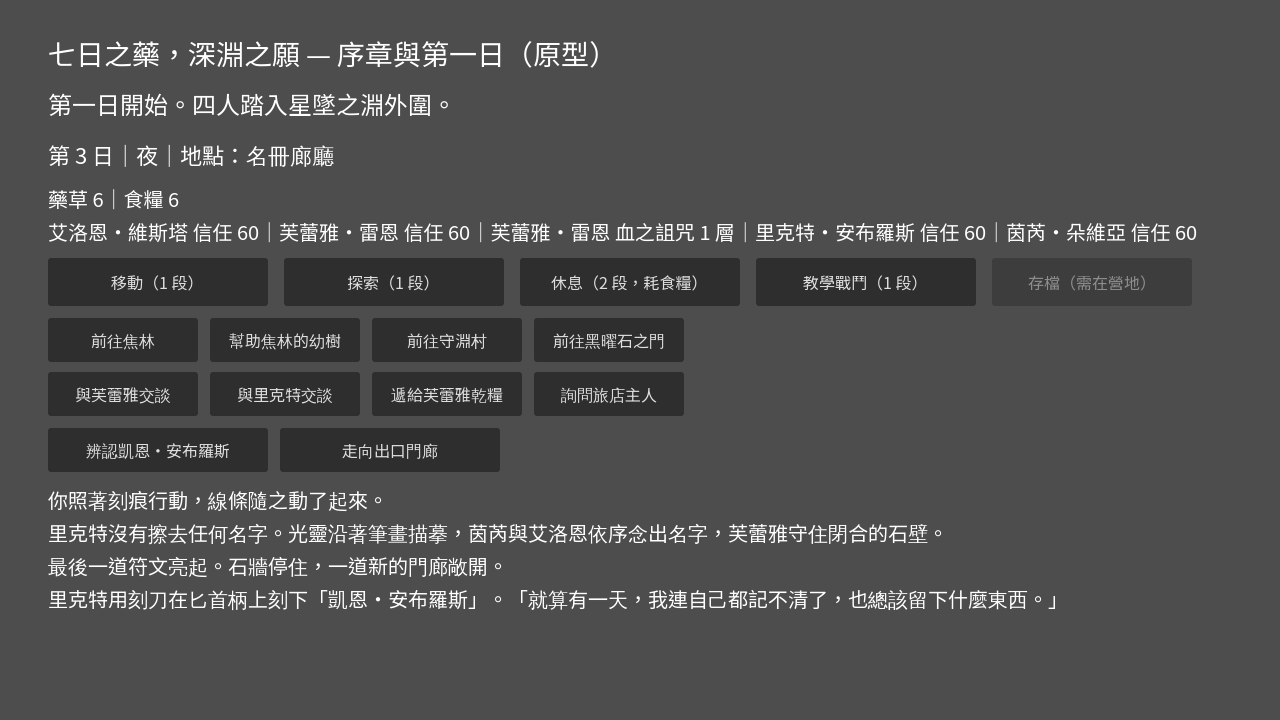
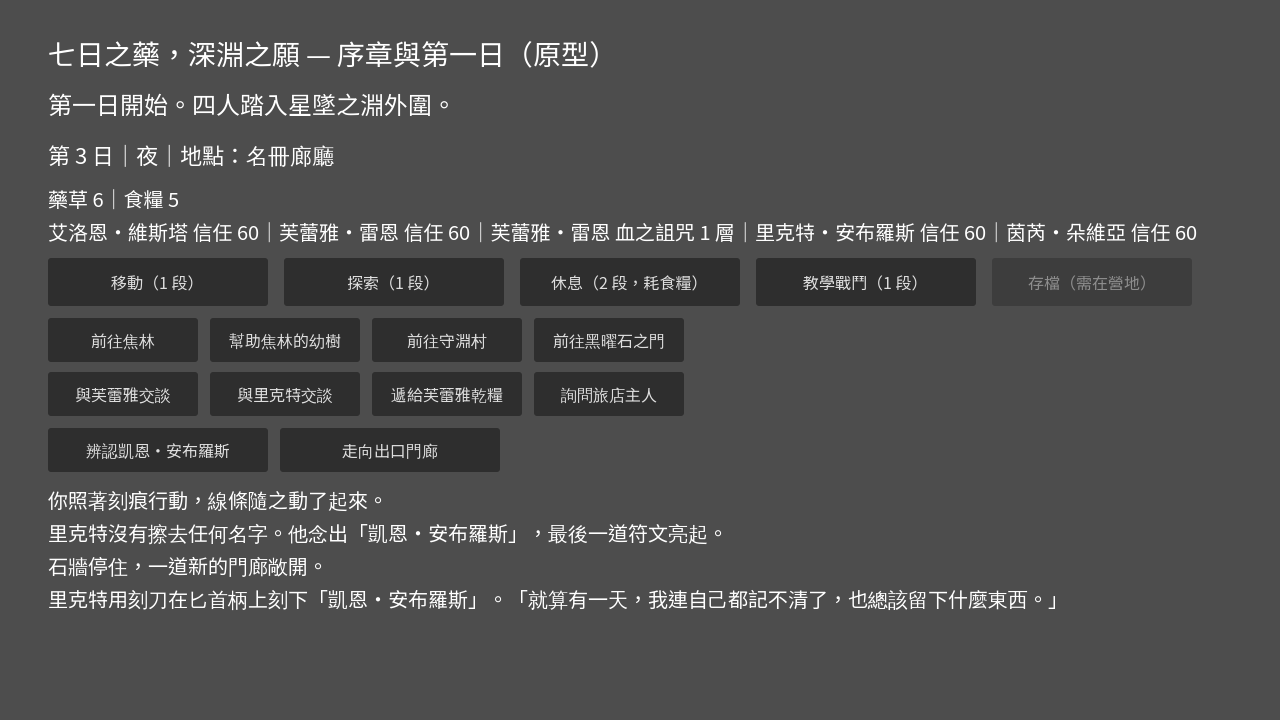
feat: require ordered steps for the Kaen seal, with a failure cost
The seal is solved in four ordered steps: summon light spirits, relink, read
names together, then finish with Kaen's name. A step out of order resets the
seal, spends one segment, and adds one blood curse stack to Freya. Refused or
failed steps run no events, so their messages and flags never fire.

Story: chapter three seal (design/narrative/CHAPTER3_EVENTS.md)

Claude-Session: https://claude.ai/code/session_016KRkTshVoQRFmCjToKscKQ

Changed region(s): [[0.0312, 0.7028, 0.7188, 0.825]]

diff --git a/design/narrative/CHAPTER3_EVENTS.md b/design/narrative/CHAPTER3_EVENTS.md
@@ -8,19 +8,23 @@
 | 地點 | 進入條件 | 可用行動 | 主要事件 |
 |---|---|---|---|
 | 咒牆迷廊 | 第三日起，且門後通道已進入 | `read:first_name`、`read:second_name` | 念出名字開啟左右窄路；兩條路都開啟後，名冊廊廳的通道接上 |
-| 名冊廊廳 | 通道接上（`registry_route_open`） | `read:kaen`、`seal:kaen` | 誓約銘文（原文）、凱恩之名、協作解陣、刻名匕首 |
+| 名冊廊廳 | 通道接上（`registry_route_open`） | `read:kaen`，以及依序的 `seal:draw`、`seal:link`、`seal:read`、`seal:kaen` | 誓約銘文（原文）、凱恩之名、協作解陣、刻名匕首 |
 | 出口門廊 | 結界已協作解開（`chapter3_sealed`） | 前往（`go:出口門廊`） | 植物氣息與第三日結尾 |
 
-- 解陣只有「協作」一條路（`seal:kaen`）。小說中里克特沒有擦除姓名，因此沒有擦除的行動。
+- 解陣依序完成四步：光靈描摹（`seal:draw`）→ 重排連線（`seal:link`）→ 全隊讀名（`seal:read`）→ 以凱恩之名完成（`seal:kaen`）。必須先辨認凱恩之名（`read:kaen`）。
+- **錯誤順序的失敗**：跳步時解陣重設（前三步的旗標歸零），花費 1 個時段，芙蕾雅的血之詛咒加 1 層。失敗不會結束遊戲。數值在 `balance.json` 的 `seal_failure`。
+- 失敗的步驟不會觸發該步的事件，因此不會誤設旗標。
+- 小說中里克特沒有擦除姓名，因此遊戲中沒有擦除的行動。
 - 讀名與協作不花時間；只能在對應地點執行，地點錯誤時回覆「這裡沒有可以進行這個行動的地方。」
 - 咒牆迷廊在第三日前不能進入（`min_day: 3`），抵達文字與小說一致。
 
 ## 尚未實作（設定集列為後續系統設計）
 
 - **遺忘閉路**：忘記名字、通道消失與重讀恢復的完整規則。目前讀名只會開路，不會遺忘。
-- **擦除選項的後果**：設定集允許擦除有機會破壞結界，但小說與本章解法都是協作。目前沒有擦除行動，若之後需要，應另由設計決定。
-- **解陣的倒數與失敗**：設定集的倒數秒數、QTE 與 HP 損失未定值，因此目前沒有失敗分支。
+- **擦除凱恩之名（遊戲重構時的點子）**：設定集允許擦除有機會破壞結界，但小說中里克特拒絕這麼做。目前不提供擦除行動；若日後加入，應只做成里克特拒絕的文字分支，或另由設計決定角色的反應。
+- **解陣的倒數與 HP 損失**：設定集未定值，目前的失敗只包含時段與詛咒。
 - **光靈的演出與動畫**：只有文字，沒有光靈的角色或動畫。
+- **失敗在夜間的時段推進**：若在第三日夜間失敗，時段會推進到第四日（目前沒有第四日內容）。這個行為待確認，見下方。
 - **第四日以後**：失聲之庭與之後的內容不在本章範圍。
 
 ## 連續性檢查
